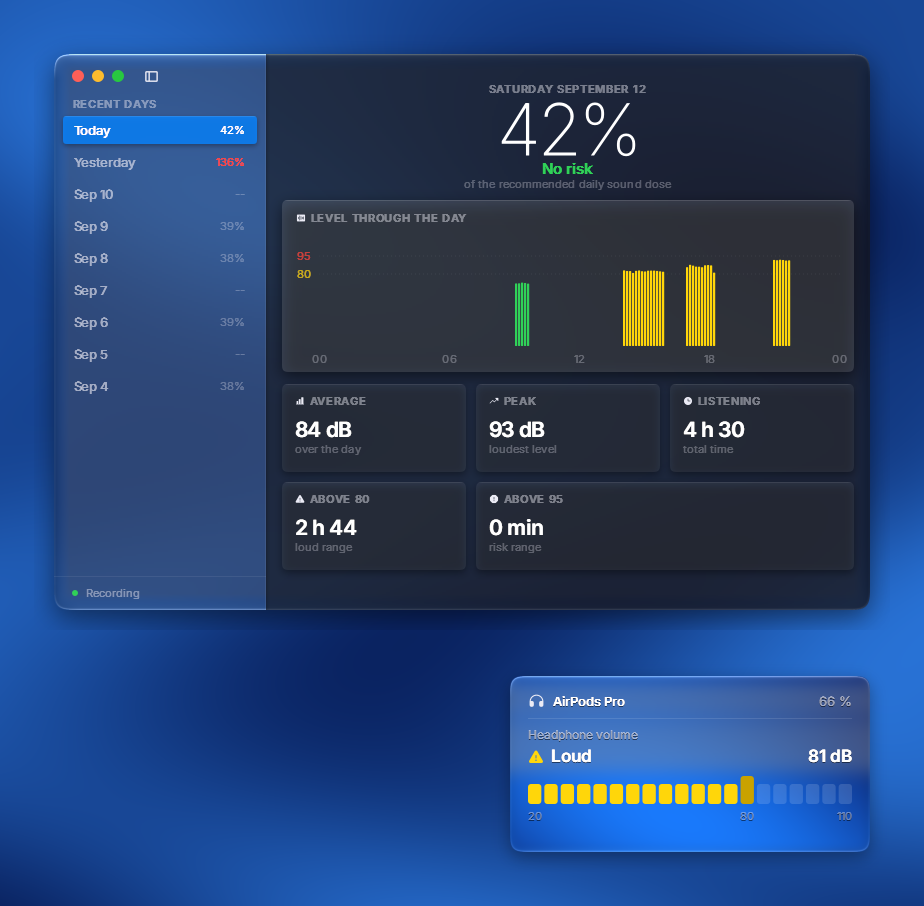
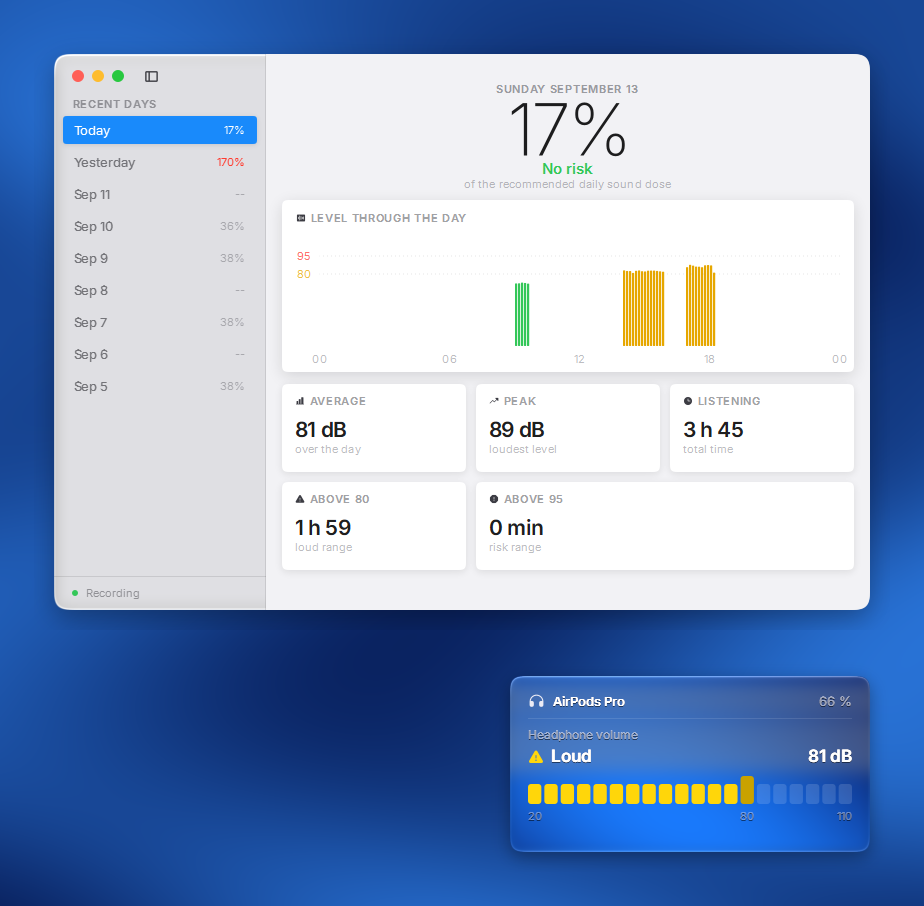
Release 1.1.0
Refresh the README screenshot for the light exposure window, and stop the
generator feeding it a wallpaper to refract - the window builds its own
shell over a flat field now, so there is nothing to hand it.

diff --git a/docs/make_screenshot.py b/docs/make_screenshot.py
@@ -66,9 +66,8 @@ def main():
 
     win = hw.HistoryWindow(store)
     win.timer.stop()
-    gw, gh = win.renderer.w, win.renderer.h
-    back = wallpaper(gw, gh).astype(np.float32)
-    win._glass = win.renderer.glass_image_split(back)
+    # the window builds its own shell once, over a flat field - it no longer
+    # refracts whatever is behind it, so there is nothing to feed it here
 
     small = pnl.PanelRenderer()
     sback = wallpaper(small.w, small.h).astype(np.float32)

diff --git a/airpods_levels/__init__.py b/airpods_levels/__init__.py
@@ -1,3 +1,3 @@
 """Live headphone sound-level meter and exposure log for Windows."""
 
-__version__ = "1.0.1"
+__version__ = "1.1.0"

diff --git a/README.md b/README.md
@@ -18,7 +18,7 @@ applies a per-model loudness reference.
 - **Control Center style panel** — click the tray icon; real Liquid Glass,
   refracting the desktop behind it at ~60 fps
 - **Exposure window** — the day's levels, your share of the recommended daily
-  dose, and the last nine days
+  dose, and the last nine days, in a light window built like Finder
 - **Automatic model detection** — reads the Bluetooth product ID and picks the
   matching loudness reference
 - **English and French**, picked from your Windows display language
